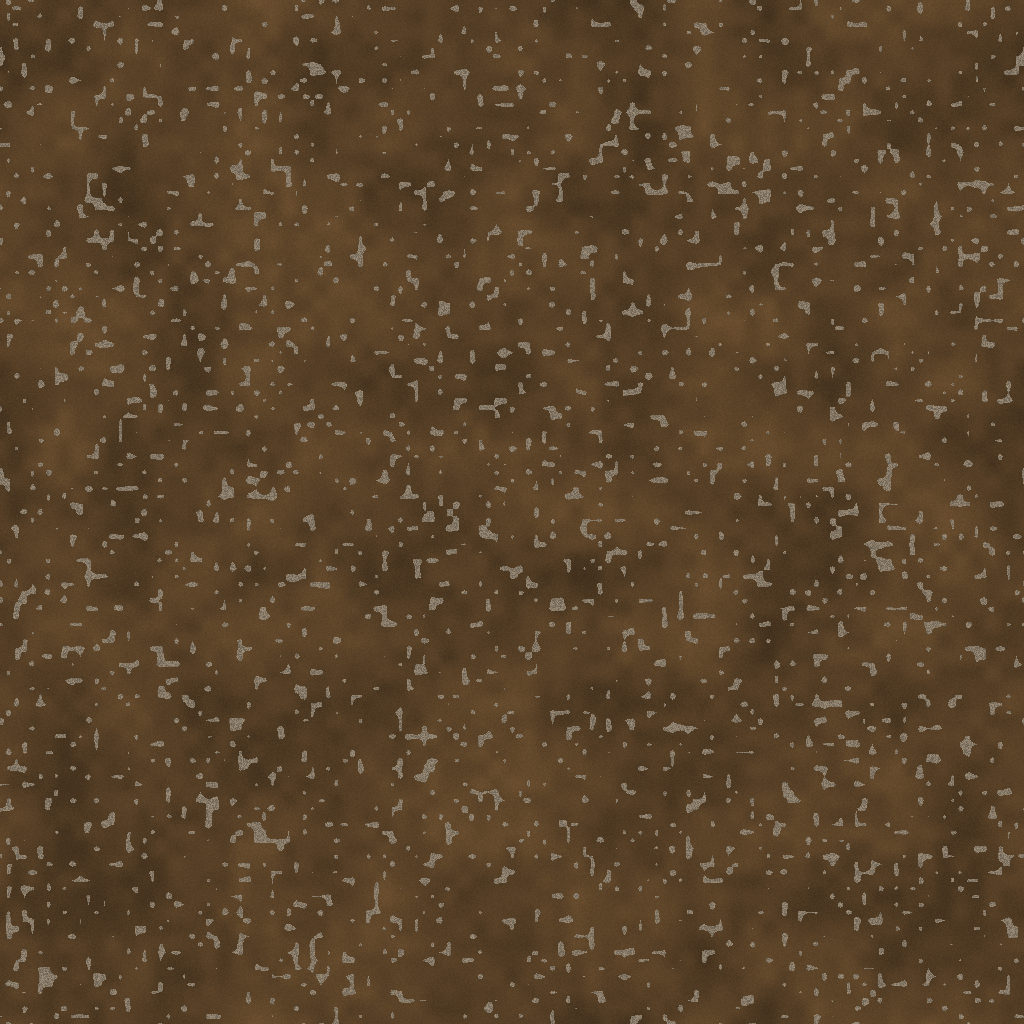
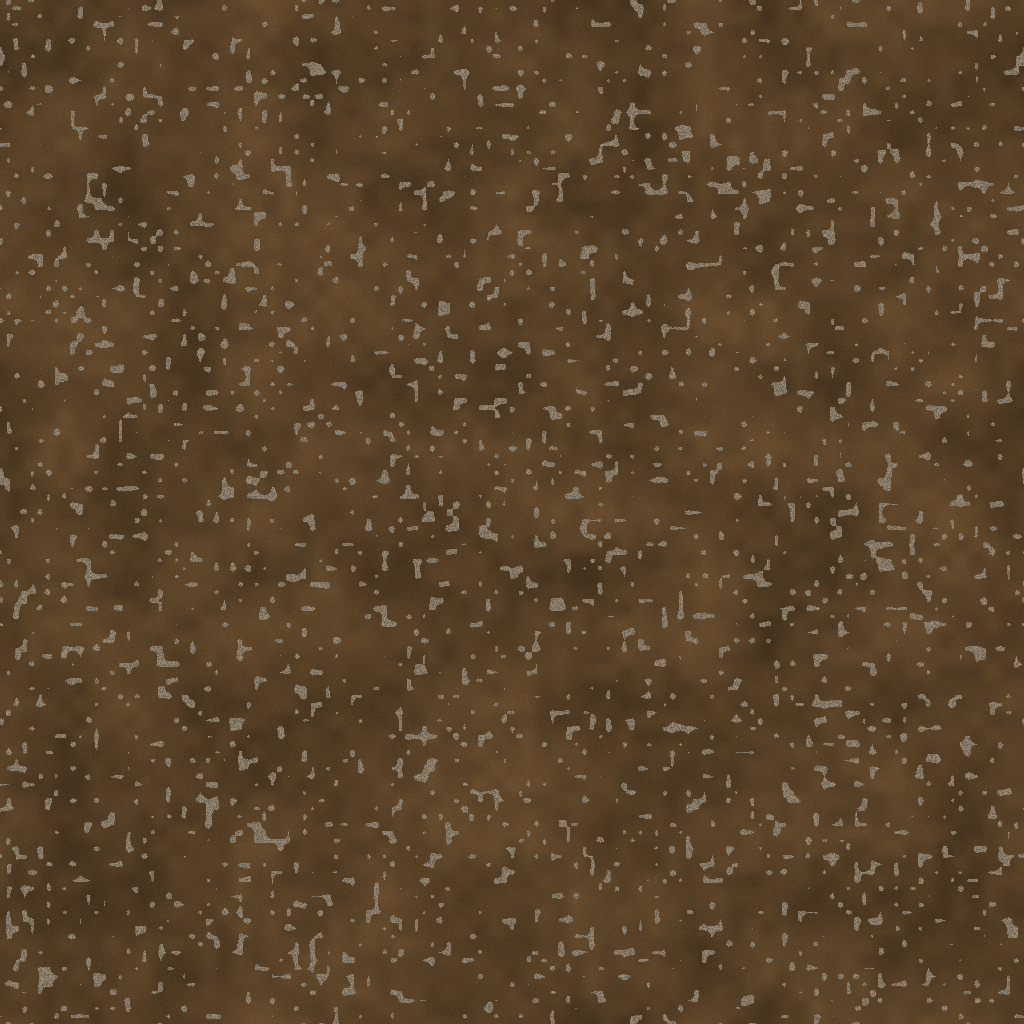
X-36 pulido 2: petalos planos en los racimos y arena mas calida con grano

diff --git a/tools/x36_camino_animas.py b/tools/x36_camino_animas.py
@@ -194,23 +194,35 @@ def arco():
 
 # ------------------------------------------------------------------ racimo de cempasuchil (7 flores de 3 planos)
 def racimo():
-    p = Parte("cempasuchil", "cempasuchil.png")
-    for i in range(7):
-        a = rnd.uniform(0, 2 * math.pi); d = rnd.uniform(0.0, 0.42) if i else 0.0
-        cx, cz, cy = d * math.cos(a), d * math.sin(a), rnd.uniform(0.045, 0.10)
-        s = rnd.uniform(0.055, 0.075)                                      # semiancho de cada flor (las del sendero de X-24 miden 0.06)
-        giro = rnd.uniform(0, math.pi)
-        for (ex, ey, ez) in ((1, 0, 0), (0, 0, 1)):                        # 2 planos verticales cruzados + 1 horizontal
-            cs, sn = math.cos(giro), math.sin(giro)
-            dx, dz = ex * cs - ez * sn, ex * sn + ez * cs
-            n = unit((-dz, 0.3, dx))
-            ids = [p.vert((cx + sgx * s * dx, cy + sgy * s, cz + sgx * s * dz), uv, n) for (sgx, sgy, uv) in ((-1, -1, (0, 0)), (1, -1, (1, 0)), (1, 1, (1, 1)), (-1, 1, (0, 1)))]
-            p.cara(*ids)
-        ids = [p.vert((cx + sx * s * math.cos(giro) - sz * s * math.sin(giro), cy, cz + sx * s * math.sin(giro) + sz * s * math.cos(giro)), uv, (0, 1, 0))
-               for (sx, sz, uv) in ((-1, -1, (0, 0)), (1, -1, (1, 0)), (1, 1, (1, 1)), (-1, 1, (0, 1)))]
+    # X-36 (pulido): antes 7 flores de 3 planos cruzados (se veian como esferas con cruz). Ahora 11 flores planas con su propia textura
+    # (petalos + centro, alfa fuera de la flor): casi todas acostadas con una leve inclinacion y unas pocas levantadas 40 grados
+    p = Parte("petalos", "petalos_racimo.png")
+    for i in range(11):
+        a = rnd.uniform(0, 2 * math.pi); d = rnd.uniform(0.0, 0.40) if i else 0.0
+        cx, cz = d * math.cos(a), d * math.sin(a)
+        s = rnd.uniform(0.075, 0.105)                                      # semiancho de cada flor
+        giro = rnd.uniform(0, 2 * math.pi)
+        inc = math.radians(40) if i % 4 == 3 else math.radians(rnd.uniform(0, 12))   # inclinacion del plano
+        cy = 0.02 + 0.012 * i / 3 + s * math.sin(inc)
+        ids = []
+        for (sx, sz, uv) in ((-1, -1, (0, 0)), (1, -1, (1, 0)), (1, 1, (1, 1)), (-1, 1, (0, 1))):
+            lx, lz = sx * s, sz * s
+            y = sz * s * math.sin(inc); lz2 = sz * s * math.cos(inc)
+            ids.append(p.vert((cx + lx * math.cos(giro) - lz2 * math.sin(giro), cy + y, cz + lx * math.sin(giro) + lz2 * math.cos(giro)), uv, (0, 1, 0)))
         p.cara(*ids)
     escribe("racimo_cempasuchil", "racimo_cempasuchil", [p])
-    shutil.copyfile(os.path.join(RAIZ, "Models", "cempasuchil", "cempasuchil.png"), os.path.join(RAIZ, "Models", "racimo_cempasuchil", "cempasuchil.png"))
+    yy, xx = np.mgrid[0:N, 0:N]; u = (xx + 0.5) / N * 2 - 1; v = (yy + 0.5) / N * 2 - 1
+    rad = np.hypot(u, v); ang = np.arctan2(v, u)
+    borde = 0.80 + 0.14 * np.cos(12 * ang)                                 # 12 petalos
+    alfa = (rad < borde).astype(float)
+    col = np.zeros((N, N, 3))
+    t = 0.5 + 0.5 * np.cos(12 * ang)
+    col[...] = np.array((0.98, 0.62, 0.05)) * (0.75 + 0.30 * t[..., None]) * (0.65 + 0.45 * rad[..., None])   # petalos: mas oscuros hacia el centro
+    col = np.where(rad[..., None] < 0.24, np.array((0.42, 0.18, 0.03)), col)                              # centro
+    col = col * (0.92 + 0.08 * r.random((N, N, 1)))
+    guarda("racimo_cempasuchil", "petalos_racimo.png", np.clip(np.concatenate([col, alfa[..., None]], axis=2), 0, 1), "RGBA")
+    f = os.path.join(RAIZ, "Models", "racimo_cempasuchil", "cempasuchil.png")
+    if os.path.exists(f): os.remove(f)                                     # la copia ya no se usa
 
 
 # ------------------------------------------------------------------ textura del sendero de tierra (RGBA: el shader descarta alfa < 0.1)

diff --git a/docs/ESTADO_PROYECTO.md b/docs/ESTADO_PROYECTO.md
@@ -370,7 +370,7 @@ como volumen porque tiene grosor (V: `fachada.obj`, objeto `roof`).
 '(4) Los modelos nuevos (`arbol_selva`, `arco_cempasuchil`, `racimo_cempasuchil`, `sendero`) son **extras, NO cuentan entre los 18 propios**; los OBJ salen de `tools/x36_camino_animas.py` y `x33_vida_colinas.py` (sin Blender; sin `.blend`). '
 '(5) Los objetos de las colinas se apoyan en la **malla** (`colinas.obj`, diferencia con la función hasta 0.36 m), no en la función. '
 '(6) **Sin verificar:** FPS (no medidos), parecido de árbol, arco y ropas con Mazunte; la especie del árbol no se afirma. |
-| 14/11 | **X-36 pulido (D2 pidió arreglar lo que seguía mal tras las segundas capturas; mismo PR #96).** (1) **Playa norte** (antes plano de arena vacío): sendero de pétalos de la capilla al camino norte (22 racimos + 3 faroles), 18 matas de cempasúchil, 16 arbustos y 8 palmas junto al pie de las colinas, 14 piedras y 3 grupos con vela (9 personas). Generador aparte (semilla 3301) para no mover lo anterior. (2) **Plazas del sendero:** textura propia `tierra_plaza.png` (sin alfa) con UV planar a 4 m, borde irregular y 0.7 cm bajo la franja (antes se veían como bandas enroscadas). (3) **Arco:** guirnalda con relieve de pompones (48×12 en vez de 24×8) y textura de 420 flores grandes con contraste, 10 % de terciopelo magenta (antes 1500 chicas: tubo amarillo). (4) **Rayas:** `ropa_5` pasa a camiseta azul marino con sol blanco, `ropa_8` a blusa con cuello bordado, `ropa_1` queda con 1 franja en vez de 3 y las rayas de los rebozos son 4× más finas. (5) **Colinas ~30 % más claras:** tinte (0.82, 1.18, 0.86)↔(1.55, 1.28, 0.68) y × (0.95 + 0.75·fbm); la luna no cambia. (6) **Tallas:** alto × 0.88–1.10 y ancho × 0.86–1.14 (antes 0.94–1.06 y 0.90–1.10; es lo único «barato» del aspecto de maniquí, que **no está resuelto**). Cantidades nuevas: 66 faroles · 172 racimos · 93 personas · 53 palmas · 106 arbustos · 84 rocas. **Sin verificar:** FPS en gráficos integrados; compilado en VS solo cuando D2 lo corra. |
+| 14/11 | **X-36 pulido (D2 pidió arreglar lo que seguía mal tras las segundas capturas; mismo PR #96).** (1) **Playa norte** (antes plano de arena vacío): sendero de pétalos de la capilla al camino norte (22 racimos + 3 faroles), 18 matas de cempasúchil, 16 arbustos y 8 palmas junto al pie de las colinas, 14 piedras y 3 grupos con vela (9 personas). Generador aparte (semilla 3301) para no mover lo anterior. (2) **Plazas del sendero:** textura propia `tierra_plaza.png` (sin alfa) con UV planar a 4 m, borde irregular y 0.7 cm bajo la franja (antes se veían como bandas enroscadas). (3) **Arco:** guirnalda con relieve de pompones (48×12 en vez de 24×8) y textura de 420 flores grandes con contraste, 10 % de terciopelo magenta (antes 1500 chicas: tubo amarillo). (4) **Rayas:** `ropa_5` pasa a camiseta azul marino con sol blanco, `ropa_8` a blusa con cuello bordado, `ropa_1` queda con 1 franja en vez de 3 y las rayas de los rebozos son 4× más finas. (5) **Colinas ~30 % más claras:** tinte (0.82, 1.18, 0.86)↔(1.55, 1.28, 0.68) y × (0.95 + 0.75·fbm); la luna no cambia. (6) **Tallas:** alto × 0.88–1.10 y ancho × 0.86–1.14 (antes 0.94–1.06 y 0.90–1.10; es lo único «barato» del aspecto de maniquí, que **no está resuelto**). (7) **Segunda pasada (14/11, tras capturas de D2):** el racimo de cempasúchil pasa de 7 flores de 3 planos cruzados (se veían como esferas con cruz) a 11 flores planas con textura propia `petalos_racimo.png` (alfa fuera de la flor; 4 de cada 11 levantadas 40°); la arena (`arena == 1`) lleva tinte cálido × (1.30, 1.02, 0.72) y grano fino × (0.88 + 0.30·fbm(4 xz)) porque con la luna azul parecía concreto. Cantidades nuevas: 66 faroles · 172 racimos · 93 personas · 53 palmas · 106 arbustos · 84 rocas. **Sin verificar:** FPS en gráficos integrados; compilado en VS solo cuando D2 lo corra. |
 
 ---
 
